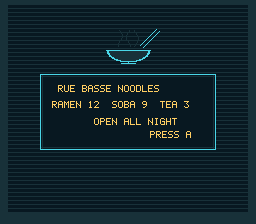
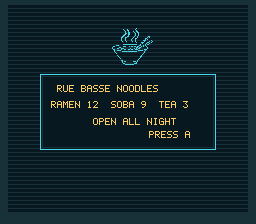
feat(examples): breakout's brick and pixel_text's bowl of noodles are drawn with PixelLab
Two more script-drawn pieces replaced with PixelLab ones (owner,
2026-10-24), each kept after a comparison on screen:

- breakout's brick (ui/brick.png, generate-image-v2 16x16, seed 8200 #4):
  a glossy 16x7 brick with a light streak and a joint row under it. It was
  asked on a three-grey ramp, which breakout.py maps on colours 13-15, so
  the game still recolours each brick by its BG palette: rendered in all
  eight colours before it was kept;
- pixel_text's bowl (ui/noodle_bowl.png, 64x48, seed 8300 #1): steam,
  chopsticks across it, noodles at the rim, on the terminal's two colours
  (2 and 3), centred where the old one was, clear of the panel (asserted).

Kept drawn, measured and written down (assets/neo-lumen/README.md, the
chantier note): breakout's circuit board (PixelLab's, seeds 8201 and 8202,
read as clusters of little hearts under the playfield, or came out nearly
empty on three colours), blocks' 8x8 containers and frame (below
PixelLab's 16 px), the terminal bezels and the Mode 5 test page (geometry
on the text grid). The library's font is the owner's call: replacing it is
an SDK change the second game would see.

make tests passes (LUNA_JOBS=4). Re-captured: breakout and pixel_text
fbhash and WRAM (ROM bytes changed), their screenshots; breakout's two
manifests pass unchanged.

| Example | What to look for |
|---|---|
| games/breakout | every brick colour shows its streak; a brick hit vanishes whole, no stray pixel |
[…]

diff --git a/devtools/art_assets/breakout.py b/devtools/art_assets/breakout.py
@@ -8,8 +8,10 @@ drawn here in that layout:
   the sprites' second name table, which reads the same words: 0 blank,
   1 the cabinet's corner, 2-7 its top edge, 8 its sides (the right
   ones are the left ones mirrored by the map), 9-12 a
-  speaker grille on the sides, 13-14 a brick (colours 13-15 of whichever
-  BG palette the map entry names: one palette per brick colour), 15-17 the
+  speaker grille on the sides, 13-14 a brick (ui/brick.png, PixelLab: its
+  three greys become colours 13-15 of whichever BG palette the map entry
+  names, one palette per brick colour; its top row is empty, the joint
+  between two rows of bricks), 15-17 the
   paddle (left end, middle, right end; the middle drawn twice, the second
   mirrored), 18-19 its shadow, 20 the ball, 21 its shadow, 22-117 the font
   (ASCII 32-127, colours 10-12), 118-119 the lives icon. The sheet's PNG
@@ -27,6 +29,7 @@ from __future__ import annotations
 
 import random
 import struct
+from pathlib import Path
 
 from PIL import Image
 
@@ -96,7 +99,17 @@ def _put(sheet: Image.Image, n: int, rows: list[str], key: dict[str, int]) -> No
             sheet.putpixel((x0 + x, y0 + y), key[ch])
 
 
-def tiles(font: dict[str, list[int]]) -> Image.Image:
+def brick(art: Path) -> list[list[int]]:
+    """The brick, 16x8 (ui/brick.png, 16x16 from PixelLab, the brick in its top half): its
+    three greys, dark to light, as colours 13-15; transparent as 0."""
+    im = Image.open(art / "ui" / "brick.png").convert("RGBA")
+    greys = sorted({im.getpixel((x, y))[:3] for y in range(8) for x in range(16) if im.getpixel((x, y))[3] >= 128}, key=sum)
+    assert len(greys) == 3, greys
+    return [[13 + greys.index(im.getpixel((x, y))[:3]) if im.getpixel((x, y))[3] >= 128 else 0
+             for x in range(16)] for y in range(8)]
+
+
+def tiles(art: Path, font: dict[str, list[int]]) -> Image.Image:
     sheet = Image.new("P", (128, 64), 0)
     sheet.putpalette([v for c in palette() for v in c])
     k = {".": 0, "0": 1, "1": 2, "2": 3, "3": 4, "4": 5, "m": 6, "n": 7, "t": 8, "g": 9}
@@ -119,10 +132,10 @@ def tiles(font: dict[str, list[int]]) -> Image.Image:
     for x, y in ((0, 0), (1, 0), (0, 1)):
         corner[y][x] = "."
     _put(sheet, 1, ["".join(r) for r in corner], k)
-    # the brick, 16x8 in two tiles: light top and left, dark bottom and right
-    b = {".": 0, "d": 13, "b": 14, "l": 15}
-    _put(sheet, 13, ["llllllll", "lbbbbbbb", "lbbbbbbb", "lbbbbbbb", "lbbbbbbb", "lbbbbbbb", "lddddddd", "dddddddd"], b)
-    _put(sheet, 14, ["lllllllc".replace("c", "d"), "bbbbbbbd", "bbbbbbbd", "bbbbbbbd", "bbbbbbbd", "bbbbbbbd", "dddddddd", "dddddddd"], b)
+    # the brick, 16x8 in two tiles (13 its left half, 14 its right)
+    for y, row in enumerate(brick(art)):
+        for x, v in enumerate(row):
+            sheet.putpixel(((13 + x // 8) % 16 * 8 + x % 8, (13 // 16) * 8 + y), v)
     # the paddle: cyan emitters at the ends, a violet body with a magenta stripe
     o = {".": 0, "W": 1, "s": 2, "C": 3, "c": 4, "e": 5, "m": 6, "v": 7, "V": 8, "h": 9, "p": 10}
     _put(sheet, 15, ["..eccchh", ".ecCCvhh", "ecCWCvvv", "ecWWCmpp", "ecCWCmmm", "ecCCCvvv", ".eccVVVV", "..eeVVVV"], o)
@@ -229,6 +242,6 @@ def bg2map() -> bytes:
     return struct.pack("<1024H", *m)
 
 
-def build_breakout(font: dict[str, list[int]]) -> dict[str, Image.Image | bytes]:
-    return {"tiles": tiles(font), "back": back(), "bg1map": bg1map(), "bg2map": bg2map(),
+def build_breakout(art: Path, font: dict[str, list[int]]) -> dict[str, Image.Image | bytes]:
+    return {"tiles": tiles(art, font), "back": back(), "bg1map": bg1map(), "bg2map": bg2map(),
             "backpal": backpal()}

diff --git a/devtools/art_assets/build.py b/devtools/art_assets/build.py
@@ -1495,7 +1495,7 @@ BAR_PANEL = (40, 74, 215, 149)          # the message panel's outline: main.c's 
 
 def bar_terminal() -> Image.Image:
     """256x224 on TERMINAL's four colours: the bezel and scanlines of save_game's terminal,
-    a bowl of noodles with its steam and chopsticks over the message panel, and the
+    a bowl of noodles with its steam and chopsticks over the message panel (PixelLab), and the
     panel's double outline (3 outside, 2 inside) round the layer main.c composes on BG1."""
     im = Image.new("P", (256, 224), 0)
     im.putpalette([v for c in TERMINAL for v in hexrgb_(c)] + [0] * 756)
@@ -1513,19 +1513,19 @@ def bar_terminal() -> Image.Image:
                 px[x, y] = 2
             else:
                 px[x, y] = 1                                # the glass, without scanlines
-    for y in range(50, 63):                                 # the bowl: a half ellipse under its rim
-        for x in range(106, 151):
-            d = ((x - 128) / 22) ** 2 + ((y - 50) / 12) ** 2
-            if d <= 1:
-                px[x, y] = 3 if d > 0.8 or y == 50 else 2
-    for x in range(121, 136):                               # its foot
-        px[x, 63] = 3
-    for sx in (120, 128, 136):                              # the steam, three wavy strands
-        for y in range(30, 47):
-            px[sx + round(2 * math.sin((y + sx) / 3)), y] = 2
-    for i in range(17):                                     # the chopsticks, across the rim
-        px[140 + i, 45 - i] = 3
-        px[143 + i, 47 - i] = 3
+    # the bowl of noodles (ui/noodle_bowl.png, PixelLab, two colours: its dark one is the
+    # bezel's 2, its cyan the 3), centred where the panel leaves room above it
+    bowl = Image.open(ART / "ui" / "noodle_bowl.png").convert("RGBA")
+    bx0, by0, bx1, by1 = bowl.getbbox()
+    ox, oy = 132 - (bx1 - bx0) // 2 - bx0, 46 - (by1 - by0) // 2 - by0
+    cols = sorted({bowl.getpixel((x, y))[:3] for y in range(bowl.height) for x in range(bowl.width)
+                   if bowl.getpixel((x, y))[3] >= 128}, key=sum)
+    assert len(cols) == 2 and oy + by1 < BAR_PANEL[1], (cols, oy + by1)
+    for y in range(bowl.height):
+        for x in range(bowl.width):
+            p = bowl.getpixel((x, y))
+            if p[3] >= 128:
+                px[ox + x, oy + y] = 2 + cols.index(p[:3])
     return im
 
 
@@ -1861,7 +1861,7 @@ def main() -> int:
     race = build_track(ART)
     ground, sky = png(city["ground"]), png(city["sky"])
     plane, plane_tiles = extbg_plane(ART)
-    arcade = build_breakout(font8())
+    arcade = build_breakout(ART, font8())
     well = build_blocks(font8())
     town = build_rpg(ART)
     aerial = build_shmup(ART)

diff --git a/assets/neo-lumen/README.md b/assets/neo-lumen/README.md
@@ -255,8 +255,8 @@ palette has no grey, and the paving came out bright teal, then as pink noise.
 ### The bar's menu screen (pixel_text)
 
 `examples/text/pixel_text`: `res/terminal.png`, save_game's terminal bezel and
-glass with a bowl of noodles (its steam, its chopsticks) over a message panel,
-four colours (BG2 of Mode 0, `bar_terminal`). The panel's outline is
+glass with a bowl of noodles (`ui/noodle_bowl.png`, below: its steam, its
+chopsticks) over a message panel, four colours (BG2 of Mode 0, `bar_terminal`). The panel's outline is
 `BAR_PANEL` in `build.py`, round the layer `main.c` composes; the text and its
 5x7 font are not an asset, they are bits in `main.c`.
 
@@ -357,6 +357,8 @@ colours by brightness). The palette given is the city's interface colours:
 | `ui/marker.png` | a white ring round a magenta core, dark outline | 8001, #3 | `examples/input/superscope` (`res/marker.png`) |
 | `ui/cursor.png` | an arrow, cyan with a magenta tip and a dark outline | 8002, #0 | `examples/input/mouse` (`res/cursor.png`, its tip moved to (0, 0)) |
 | `ui/bolt.png` | Kit's shot, an aqua capsule with a white core | 8003, #0 | `examples/demos/shmup` (`res/bullet.png`) |
+| `ui/noodle_bowl.png` | a steaming bowl of ramen, chopsticks across it, 41x37 in a 64x48 canvas, two colours | 8300, #1 (the palette given: the terminal's `#1a3038 #48d0e0`, its colours 2 and 3) | `examples/text/pixel_text` (`res/terminal.png`, centred above the panel) |
+| `ui/brick.png` | a glossy arcade brick, 16x7 in the top half (a joint row under it), three greys | 8200, #4 (the palette given: `#484848 #909090 #e0e0e0`, a ramp to map on colours 13-15) | `examples/games/breakout` (tiles 13-14 of `res/tiles.png`) |
 
 What PixelLab could not do here, measured: it makes nothing smaller than 16
 pixels a side, so the 8x8 moths of `sprite_swarm`, the 4x3 speck of
@@ -367,14 +369,21 @@ by script too (`mode7.py`, `orb`).
 
 ### Neon Breaker (the arcade cabinet)
 
-`examples/games/breakout`: everything in `res/` is drawn by
-`devtools/art_assets/breakout.py`, in the tile numbering the game addresses:
-the cabinet (a steel bevel with a magenta neon tube, a speaker grille), a
-16x8 brick in eight colours (one BG palette each), the paddle with its
-cyan emitters, the ball, their shadows, the lives icon, the library's 8x8
-font with a highlight and a shadow, and BG3's circuit board in seven
-level colours. The colours are the city's, with a green and a red for two
-bricks. No PixelLab call.
+`examples/games/breakout`: everything in `res/` is written by
+`devtools/art_assets/breakout.py`, in the tile numbering the game addresses.
+The brick is `ui/brick.png` (below): its three greys become colours 13-15 of
+whichever BG palette names it, eight colours in all. The rest is drawn
+there: the cabinet (a steel bevel with a magenta neon tube, a speaker
+grille), the paddle with its cyan emitters, the ball, their shadows, the
+lives icon, the library's 8x8 font with a highlight and a shadow, and BG3's
+circuit board in seven level colours. The colours are the city's, with a
+green and a red for two bricks.
+
+PixelLab was tried for the board too (`create-tiles-pro`, seeds 8201 and
+8202): on four colours its traces were darker than the board, which the
+level palettes would invert, and remapped they read as clusters of little
+hearts, busy under the bricks and the ball; on three colours the cells came
+out nearly empty. The drawn board stays: under a playfield, quiet wins.
 
 ### The hi-res page (mode5_hires)
 

diff --git a/.claude/notes/chantiers/assets_rebrand_needs.md b/.claude/notes/chantiers/assets_rebrand_needs.md
@@ -40,8 +40,12 @@ Direction retenue par le propriétaire : **cyberpunk, personnages animaux anthro
 >   PixelLab, mesuré** : ce qui fait moins de 16 px (papillons 8x8, grain 4x3, balle 8x8 : PixelLab ne
 >   produit rien sous 16 px) et l'orbe pulsé d'extbg (deux animations `animate-with-text-v3` perdent
 >   la forme de l'orbe d'une trame à l'autre). Sol du RPG **fait le même jour** (deux jeux Wang
->   PixelLab enchaînés, variantes, pont, ruelles : `assets/neo-lumen/README.md`). Reste à faire :
->   briques, blocs, polices, terminaux, brume, pluie.
+>   PixelLab enchaînés, variantes, pont, ruelles : `assets/neo-lumen/README.md`). Brique de breakout et bol de
+>   pixel_text **faits le même jour** (PixelLab). **Gardés dessinés, mesuré** : le plateau de circuit de
+>   breakout (PixelLab : des petits cœurs, chargé sous le jeu), les conteneurs et le cadre de blocks
+>   (8x8), les écrans de terminal et la mire Mode 5 (géométrie calée sur la grille de texte). Restent :
+>   brume et pluie (bouclage sans couture), et la police, qui est celle de la bibliothèque (décision
+>   du propriétaire : changement de SDK, vu par le second jeu).
 > - **Reste** : les noms de `games/likemario` et `demos/mapandobjects` (tranchés le jour même :
 >   `games/rooftop_run`, `demos/platform_objects`) ;
 >   `audio/speech_synth` (sa phrase attend le nom de la ville) ; la musique (MU1-MU3, modules

diff --git a/examples/games/breakout/README.md b/examples/games/breakout/README.md
@@ -361,7 +361,7 @@ All of `res/` — the two sheets, the two maps and the level colours — is draw
 |------|-------------|
 | `main.c` | All game logic |
 | `data.asm` | The far RAM buffers, string constants, the map and colour binaries |
-| `res/tiles.png` | BG1 and sprite tiles (cabinet, bricks, paddle, ball, shadows, font, lives icon); its palette is the whole CGRAM |
+| `res/tiles.png` | BG1 and sprite tiles (cabinet, bricks, paddle, ball, shadows, font, lives icon); its palette is the whole CGRAM. The brick is PixelLab's (`assets/neo-lumen/ui/brick.png`), the rest drawn by `devtools/art_assets/breakout.py` |
 | `res/back.png` | BG3's circuit board (2bpp) |
 | `res/bg1map.bin` | The cabinet and the HUD labels |
 | `res/bg2map.bin` | The board under the playfield |
